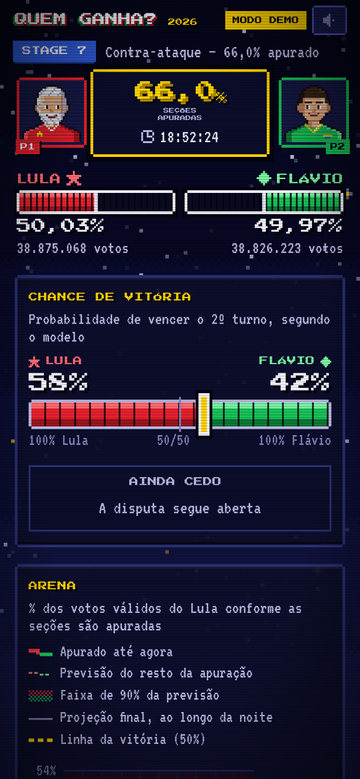
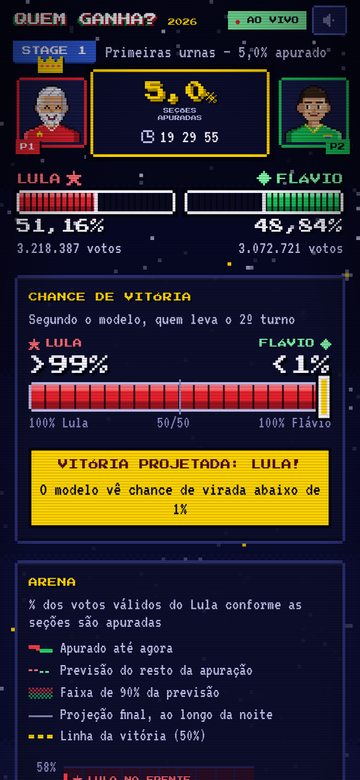
README: resultados da noite de 25/10
- o modelo cravou a vitória de Lula às 19h29, com 5% das urnas apuradas:
  56 min antes de Lula assumir de vez a liderança no placar (20h25, 47%)
  e 1h40 antes da vitória matemática (21h09); final: Lula 51,79%
- linha do tempo, previsão × resultado e o que deu certo e errado
- screenshots reais da noite no lugar das imagens da demo

diff --git a/scripts/make-readme-art.ts b/scripts/make-readme-art.ts
@@ -169,5 +169,6 @@ stage('stage-4.svg', 'STAGE 4', 'HIGH SCORES', '#ffd400');
 stage('stage-5.svg', 'STAGE 5', 'COMO JOGAR', '#e8222e');
 stage('stage-6.svg', 'STAGE 6', 'INVENTÁRIO', '#19c35a');
 stage('stage-7.svg', 'BONUS', 'LORE E FONTES', '#4d7cff');
+stage('stage-results.svg', 'FIM DE JOGO', 'RESULTADOS', '#ffd400');
 scores();
 console.log('arte gerada em', OUT);

diff --git a/README.md b/README.md
@@ -3,7 +3,7 @@
 </p>
 
 <p align="center">
-  <a href="https://quem-ganha.vercel.app"><img src="https://img.shields.io/badge/▶_PRESS_START-quem--ganha.vercel.app-ffd400?style=for-the-badge&labelColor=0e0b22" alt="Abrir o dashboard"></a>
+  <a href="#resultados"><img src="https://img.shields.io/badge/🏁_FIM_DE_JOGO-modelo_cravou_Lula_com_5%25_apurado-ffd400?style=for-the-badge&labelColor=0e0b22" alt="Ver os resultados"></a>
 </p>
 
 <p align="center">
@@ -20,7 +20,7 @@
  ╔══════════════════════════════════════════════════════════════════════╗
  ║  P1 LULA  ▓▓▓▓▓▓▓▓▓▓▓▓░░░░░░░░   VS   ░░░░░░░░▓▓▓▓▓▓▓▓▓▓▓▓  FLÁVIO P2  ║
  ║                                                                      ║
- ║   17:00 ▸ urnas fecham    17:13 ▸ 1% apurado    ~20:30 ▸ 100%        ║
+ ║   19:02 ▸ começa a apuração   19:29 ▸ LULA PROJETADO   22:45 ▸ 100%  ║
  ║                                                                      ║
  ║   O placar da TV MENTE no começo: o Sul chega primeiro, o Nordeste   ║
  ║   por último. Em 2022 Bolsonaro "liderou" até 68% — e perdeu.        ║
@@ -28,21 +28,60 @@
  ╚══════════════════════════════════════════════════════════════════════╝
 ```
 
+<a id="resultados"></a>
+
+<img src="docs/img/stage-results.svg" width="100%" alt="Fim de jogo: resultados">
+
+> 🏆 **O modelo cravou a vitória de Lula às 19h29 de 25/10, com 5% das urnas apuradas.** Isso foi 56 minutos antes de Lula assumir de vez a liderança no placar (20h25, com 47% apurado) e 1h40 antes da vitória matemática (21h09). **Resultado final: Lula 51,79% × Flávio 48,21%.**
+
+<p align="center"><img src="docs/img/result-final.png" width="100%" alt="Painel real no fim da noite: placar final, linha da apuração e linha da previsão do modelo ao longo da noite"></p>
+<p align="center"><sub><b>O painel real no fim da noite.</b> Linha cheia = placar ao longo da apuração (Flávio chegou a liderar entre 19h45 e 20h24). Linha fina = a previsão do modelo, que cravou Lula com 5% apurado e convergiu para 51,8%.</sub></p>
+
+| Horário (Brasília) | % apurado | Placar: Lula | Previsão do modelo: Lula | Chance de Lula | O que aconteceu |
+|---|---:|---:|---:|---:|---|
+| 11h42 | 0% | — | 47,4% (43,5–51,3) | 14% | previsão pré-apuração (pesquisas corrigidas) |
+| 17h07 | 0,25% | 57,7% | 47,5% | 14% | primeiros números: só o **exterior** |
+| 19h02 | 0,3% | 56,7% | 50,4% | 57% | começa a apuração no Brasil; o modelo passa a favorecer Lula e não muda mais |
+| 19h05 | 1,5% | 52,3% | 51,6% | 78% | "vantagem Lula" |
+| 19h17 | 2% | 51,8% | 51,9% | 85% | previsão a 0,07 ponto do resultado final |
+| **19h29** | **5%** | 51,2% | **53,8%** (52,2–55,5) | **>99%** | 🏆 **VITÓRIA PROJETADA: LULA** |
+| 19h45 – 20h24 | 14% – 47% | **Flávio na frente** (até 50,5%) | 52,1% – 52,7% | >99% | o placar mostra Flávio liderando; o modelo mantém Lula |
+| 20h25 | 47% | 50,0% | 52,2% | 100% | Lula passa à frente no placar, de vez |
+| 21h09 | 97,7% | 51,7% | 51,9% | 100% | vitória matemática |
+| 22h45 | 100% | **51,79%** | 51,79% | — | resultado final |
+
+**Previsão × resultado** (Lula, % dos válidos; final = 51,79%):
+
+| % apurado | 1% | 2% | 5% | 10% | 20% | 50% | 90% |
+|---|---:|---:|---:|---:|---:|---:|---:|
+| previsão | 50,8% | 51,9% | 53,8% | 53,0% | 52,2% | 52,2% | 52,0% |
+| erro (pontos) | −1,0 | **+0,07** | +2,0 | +1,3 | +0,45 | +0,39 | +0,17 |
+
+**O que deu certo e o que não deu:**
+
+- ✅ **Vencedor certo desde o início da apuração no Brasil.** A partir das 19h02 o modelo sempre apontou Lula como favorito, e cravou com 5% apurado, inclusive durante os 40 minutos em que o placar mostrava Flávio na frente.
+- ✅ **Convergência.** A partir de ~20% apurado, a previsão nunca se afastou mais de 0,46 ponto do resultado final.
+- ⚠ **A margem foi superestimada no começo.** Entre 5% e 10% apurado, a previsão chegou a 53,8%. Às 19h29 o intervalo de 90% (52,2–55,5) **não** continha o resultado final. O vencedor estava certo, mas a confiança na margem foi alta demais naquele momento.
+- ⚠ **Horário.** Os números das 17h07 eram só do exterior; a apuração no Brasil começou por volta das 19h. Como o worker contava o relógio a partir das 17h, o "fim previsto" exibido durante a noite ficou errado. A previsão do resultado não usa o horário e não foi afetada.
+- 📼 **Prova com horário:** o worker gravou automaticamente no branch [`ao-vivo`](https://github.com/joaoemanuelzilli/quem-ganha/tree/ao-vivo) um snapshot a cada 10 minutos. O das 19h29 ([`snapshots/20261025-1929.json`](https://github.com/joaoemanuelzilli/quem-ganha/blob/ao-vivo/snapshots/20261025-1929.json), commit `e3b3cb8`) registra: *"5,02% apurado · Lula 53,82% · P(Lula) 99,9%"*.
+
+<sub>Fonte dos números: [`history.ndjson`](https://github.com/joaoemanuelzilli/quem-ganha/blob/ao-vivo/history.ndjson), com os 1.231 ciclos do modelo durante a apuração, e os resultados oficiais do TSE. Depois da eleição o site foi tirado do ar; o código continua aqui.</sub>
+
 ## 🎮 GAMEPLAY
 
 <table>
 <tr>
-<td width="72%"><img src="docs/img/screen-title.png" alt="Tela de título: contagem regressiva para as 17h, VS, prior das pesquisas e Polymarket"></td>
-<td width="28%" rowspan="2"><img src="docs/img/screen-mobile.png" alt="Versão mobile: HUD de luta e medidor de chance de vitória"></td>
+<td width="72%"><img src="docs/img/screen-title.png" alt="Tela de título real às 11h45 de 25/10: contagem regressiva, VS, prior das pesquisas e Polymarket"></td>
+<td width="28%" rowspan="2"><img src="docs/img/screen-mobile.png" alt="Versão mobile às 19h29: HUD de luta e VITÓRIA PROJETADA: LULA"></td>
 </tr>
-<tr><td><sub><b>STAGE 0 — tela de título.</b> Contagem regressiva, prior das pesquisas e a cotação do Polymarket ao vivo. <b>JOGAR DEMO</b> simula uma apuração inteira em 90 s.</sub></td></tr>
+<tr><td><sub><b>STAGE 0: tela de título</b>, como estava às 11h45 de 25/10. Contagem regressiva, prior das pesquisas (Lula 47,4%) e a cotação do Polymarket (21% × 79%). À direita, o celular às 19h29.</sub></td></tr>
 </table>
 
 <p align="center"><img src="docs/img/screen-arena.png" width="100%" alt="Arena: HUD com barras de vida, gráfico da apuração com previsão do restante, chance de vitória, projeção final e termômetros de Minas e do Nordeste"></p>
-<p align="center"><sub><b>A ARENA.</b> Barras de vida = votos apurados · linha cheia = apuração até agora · faixa pontilhada = <b>previsão de como o resto da apuração vai se comportar</b> · medidor de chance de vitória · termômetros de Minas e do Nordeste.</sub></p>
+<p align="center"><sub><b>A ARENA às 19h29, no momento em que o modelo cravou Lula com 5% apurado.</b> Barras de vida = votos apurados · linha cheia = apuração até agora · faixa pontilhada = <b>previsão de como o resto da apuração vai se comportar</b> · medidor de chance de vitória · termômetros de Minas e do Nordeste.</sub></p>
 
 <p align="center"><img src="docs/img/screen-methods.png" width="100%" alt="Select your algorithm: cada método com sua previsão e seu erro histórico no backtest"></p>
-<p align="center"><sub><b>SELECT YOUR ALGORITHM.</b> Cada "personagem" é um método de previsão, com a <b>barra de erro histórico</b> medida no backtest. A carta dourada é a previsão oficial.</sub></p>
+<p align="center"><sub><b>SELECT YOUR ALGORITHM às 19h29.</b> Cada "personagem" é um método de previsão, com a <b>barra de erro histórico</b> medida no backtest. A carta dourada é a previsão oficial.</sub></p>
 
 <img src="docs/img/stage-select.svg" width="100%" alt="Escolha seu lutador">
 
@@ -232,7 +271,6 @@ npm run priors
 # 3) dashboard
 npm run dev                     # http://localhost:5173        (lê o worker na nuvem)
 #   http://localhost:5173/?local=1   → lê o worker local
-#   http://localhost:5173/?demo=1    → MODO DEMO: apuração simulada acelerada
 
 # 4) treino / backtest
 npm run backtest                # avalia nas 15 apurações reais
